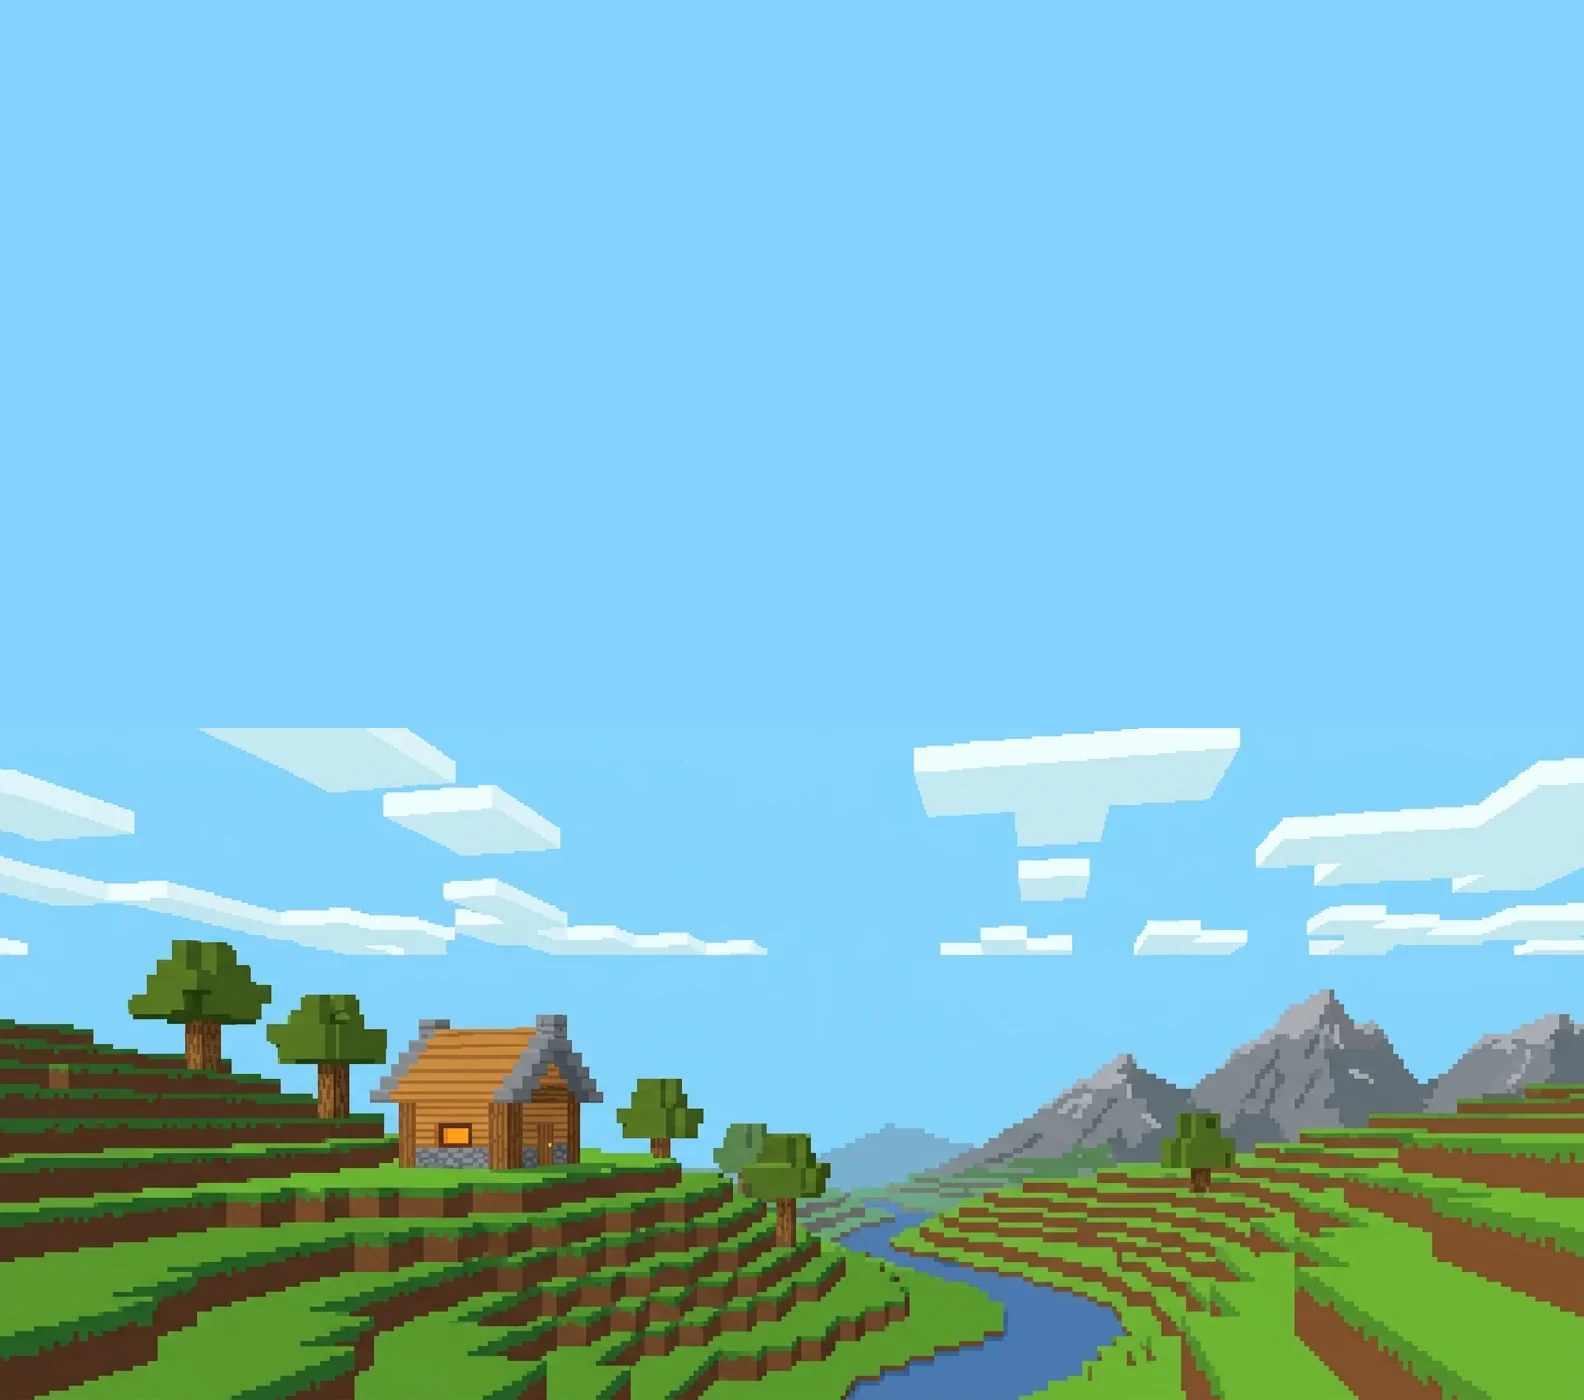
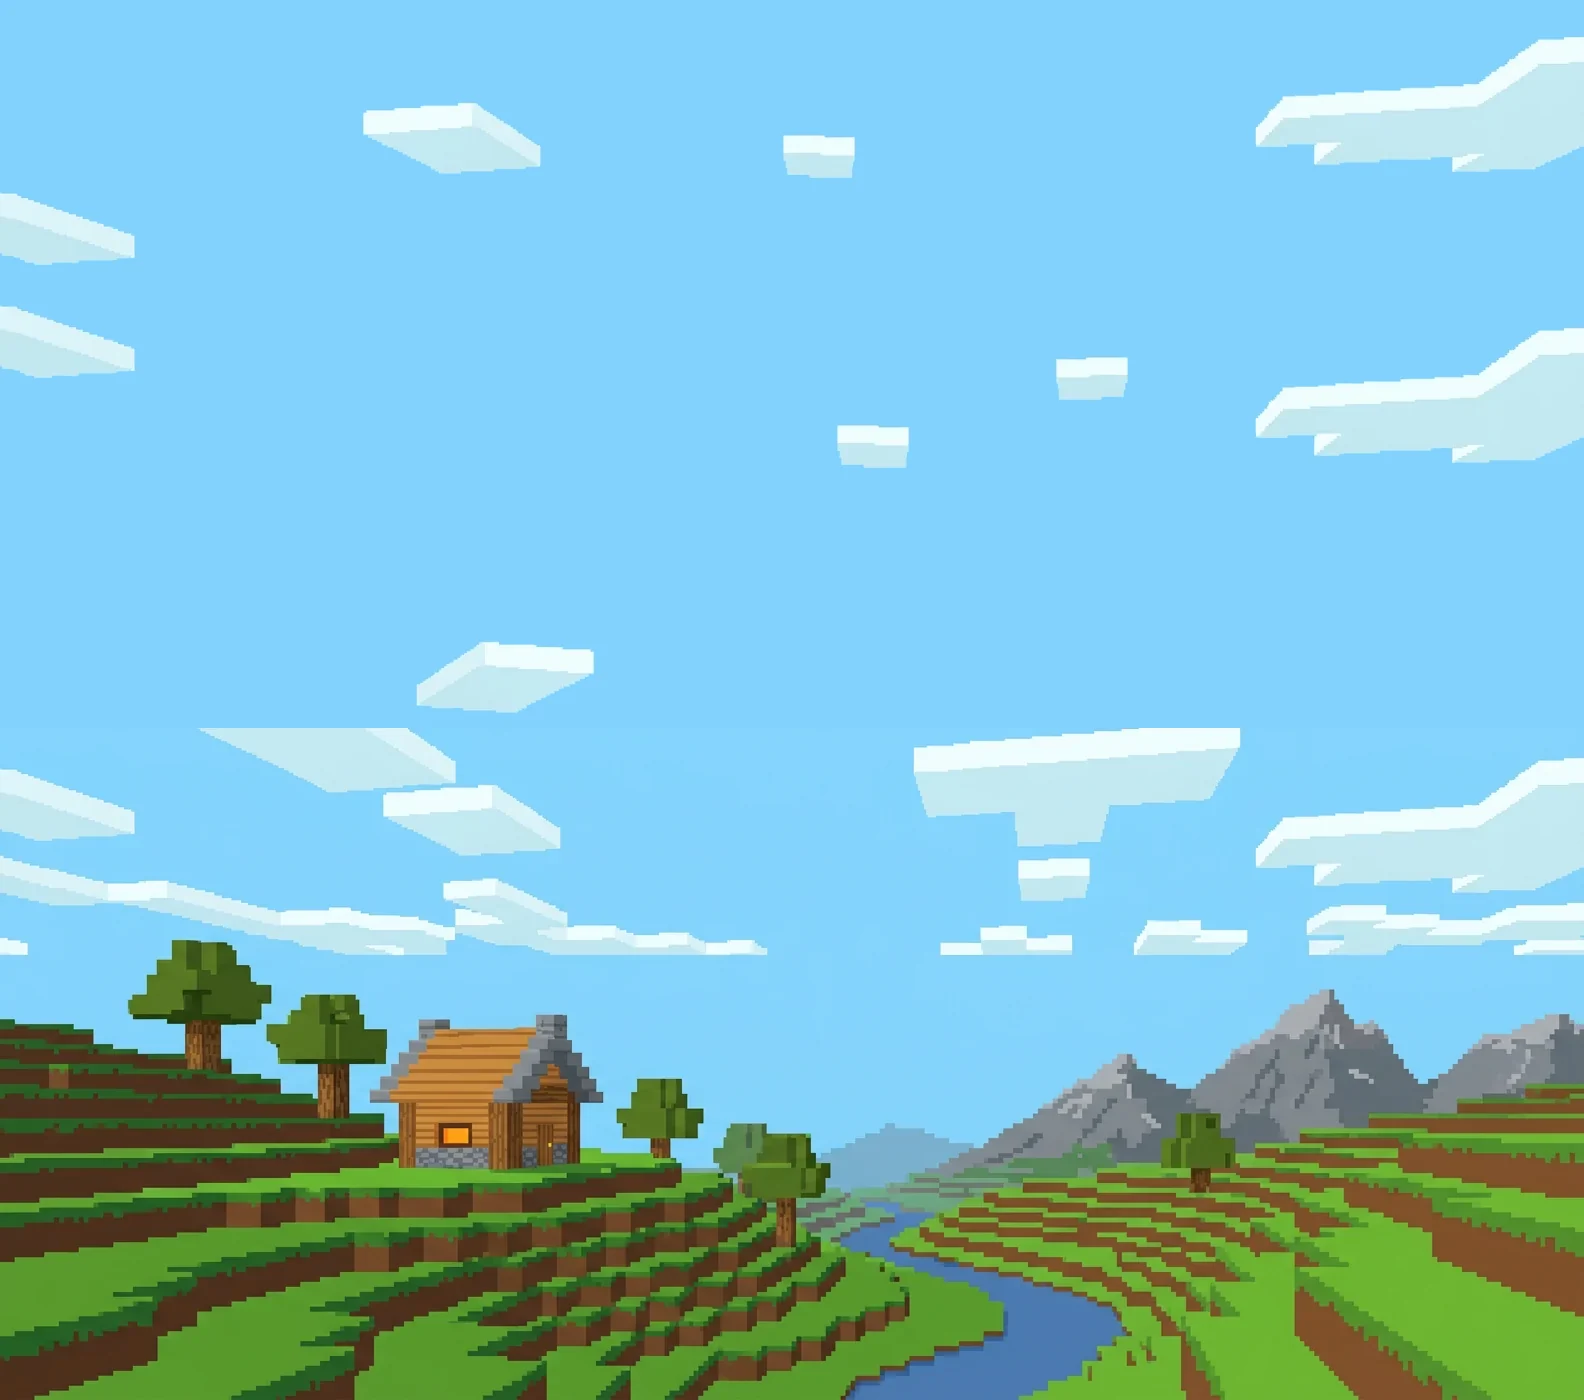
fix(website): one coherent sky in the hero, drifting clouds kept
The flat sky above the hero panorama looked pasted on: plain colour above,
painted clouds below. hero-extend.js now cuts the painting's own clouds
(and, at night, its stars) out of its sky band and scatters them over the
extended sky, seeded so a re-run is byte-identical, with capped repeats
and mirrored copies. The drifting pixel clouds stay on every sky.

diff --git a/website/scripts/hero-extend.js b/website/scripts/hero-extend.js
@@ -1,47 +1,185 @@
 // Derives the tall hero backgrounds from the generated panoramas: each one is
-// extended upward with its sky colour, so the hero is a single image (text over
-// sky, landscape at the bottom). The colour is the most common pixel colour of
-// the sky band (the flat blue behind the painted clouds), not the average: the
-// clouds lighten an average, and that mismatch showed as a seam behind the hero
-// text. The site's --color-sky tokens (styles/site.css) use the printed values,
-// so every sky on the site is the same blue.
-// Runs after gen-images.js; output is committed like the rest of src/assets/gen.
+// extended upward so the hero is a single image (text over sky, landscape at
+// the bottom) that reads as one sky from top to bottom.
+//
+// - The new sky is the most common pixel colour of the panorama's sky band
+//   (the flat blue behind its painted clouds), not the average, which the
+//   clouds lighten and which showed as a seam.
+// - The painted clouds are cut out of that band (every connected group of
+//   non-sky pixels that is not cut off by the band's edges) and scattered over
+//   the new sky at the band's own cloud density, so the upper sky has the same
+//   clouds as the lower one. Placement is seeded: a re-run is byte-identical.
+//
+// The site's --color-sky tokens (styles/site.css) use the printed colours, so
+// the page headers match the hero. Runs after gen-images.js; output is
+// committed like the rest of src/assets/gen.
 import { join, dirname } from 'node:path';
 import { fileURLToPath } from 'node:url';
 import sharp from 'sharp';
 
 const dir = join(dirname(fileURLToPath(import.meta.url)), '..', 'src', 'assets', 'gen');
 const TALL = 1400;
-// Rows at the top of each panorama that are only sky and clouds.
+// Rows at the top of each panorama that hold only sky and clouds.
+// `minSize`: the smallest group of pixels that counts (clouds by day, stars at night).
 const HEROES = [
-  { id: 'hero-day', band: 190 },
-  { id: 'hero-night', band: 140 },
+  { id: 'hero-day', band: 190, seed: 7, minSize: 300 },
+  { id: 'hero-night', band: 140, seed: 11, minSize: 2 },
 ];
+// A pixel further than this from the sky colour (RGB distance) is cloud.
+const CLOUD_DISTANCE = 22;
+
+const hex = ({ r, g, b }) => `#${[r, g, b].map((v) => v.toString(16).padStart(2, '0')).join('')}`;
+
+/** Mulberry32: tiny seeded PRNG so the scatter is the same on every run. */
+function rng(seed) {
+  let a = seed;
+  return () => {
+    a |= 0;
+    a = (a + 0x6d2b79f5) | 0;
+    let t = Math.imul(a ^ (a >>> 15), 1 | a);
+    t = (t + Math.imul(t ^ (t >>> 7), 61 | t)) ^ t;
+    return ((t ^ (t >>> 14)) >>> 0) / 4294967296;
+  };
+}
 
 /** Most common colour in the band, bucketed by 4 to absorb WebP noise. */
-async function skyColour(src, width, band) {
-  const { data, info } = await sharp(src)
-    .extract({ left: 0, top: 0, width, height: band })
-    .raw()
-    .toBuffer({ resolveWithObject: true });
+function skyColour(px, width, band) {
   const counts = new Map();
-  for (let i = 0; i < data.length; i += info.channels) {
-    const key = ((data[i] >> 2) << 16) | ((data[i + 1] >> 2) << 8) | (data[i + 2] >> 2);
+  for (let i = 0; i < width * band * 3; i += 3) {
+    const key = ((px[i] >> 2) << 16) | ((px[i + 1] >> 2) << 8) | (px[i + 2] >> 2);
     counts.set(key, (counts.get(key) || 0) + 1);
   }
   const [key] = [...counts].sort((a, b) => b[1] - a[1])[0];
   return { r: ((key >> 16) & 63) * 4 + 2, g: ((key >> 8) & 63) * 4 + 2, b: (key & 63) * 4 + 2 };
 }
 
-const hex = ({ r, g, b }) => `#${[r, g, b].map((v) => v.toString(16).padStart(2, '0')).join('')}`;
+/**
+ * Every cloud (or star) in the band as an RGBA sprite { width, height, data,
+ * area, edge }. `edge` is 'left' or 'right' for one cut off by that side of the
+ * picture: it is only ever placed flush against the same side, so the cut never
+ * shows.
+ */
+function cutClouds(px, width, band, sky, minSize) {
+  const isCloud = new Uint8Array(width * band);
+  for (let p = 0; p < width * band; p++) {
+    const i = p * 3;
+    const d = Math.hypot(px[i] - sky.r, px[i + 1] - sky.g, px[i + 2] - sky.b);
+    isCloud[p] = d > CLOUD_DISTANCE ? 1 : 0;
+  }
+  const seen = new Uint8Array(width * band);
+  const clouds = [];
+  for (let start = 0; start < width * band; start++) {
+    if (!isCloud[start] || seen[start]) continue;
+    const members = [];
+    const stack = [start];
+    seen[start] = 1;
+    let x0 = width,
+      x1 = 0,
+      y0 = band,
+      y1 = 0;
+    while (stack.length) {
+      const p = stack.pop();
+      members.push(p);
+      const x = p % width;
+      const y = (p - x) / width;
+      x0 = Math.min(x0, x);
+      x1 = Math.max(x1, x);
+      y0 = Math.min(y0, y);
+      y1 = Math.max(y1, y);
+      for (let dy = -1; dy <= 1; dy++)
+        for (let dx = -1; dx <= 1; dx++) {
+          const nx = x + dx;
+          const ny = y + dy;
+          if (nx < 0 || ny < 0 || nx >= width || ny >= band) continue;
+          const q = ny * width + nx;
+          if (isCloud[q] && !seen[q]) {
+            seen[q] = 1;
+            stack.push(q);
+          }
+        }
+    }
+    // Skip noise, clouds cut by the band's top or bottom, and anything spanning both sides.
+    if (members.length < minSize || y0 === 0 || y1 === band - 1 || (x0 === 0 && x1 === width - 1)) continue;
+    const edge = x0 === 0 ? 'left' : x1 === width - 1 ? 'right' : null;
+    const w = x1 - x0 + 1;
+    const h = y1 - y0 + 1;
+    const data = Buffer.alloc(w * h * 4);
+    for (const p of members) {
+      const x = p % width;
+      const y = (p - x) / width;
+      const o = ((y - y0) * w + (x - x0)) * 4;
+      data[o] = px[p * 3];
+      data[o + 1] = px[p * 3 + 1];
+      data[o + 2] = px[p * 3 + 2];
+      data[o + 3] = 255;
+    }
+    clouds.push({ width: w, height: h, data, area: members.length, edge });
+  }
+  return clouds;
+}
 
-for (const { id, band } of HEROES) {
+/** The same sprite flipped left to right. */
+function mirror(c) {
+  const data = Buffer.alloc(c.data.length);
+  for (let y = 0; y < c.height; y++)
+    for (let x = 0; x < c.width; x++)
+      c.data.copy(data, (y * c.width + (c.width - 1 - x)) * 4, (y * c.width + x) * 4, (y * c.width + x) * 4 + 4);
+  return { ...c, data };
+}
+
+/** Seeded, non-overlapping placement over `height` rows at the band's cloud density. */
+function scatter(clouds, width, height, density, random) {
+  const placed = [];
+  const target = density * width * height;
+  let covered = 0;
+  const uses = new Map();
+  for (let tries = 0; tries < 4000 && covered < target; tries++) {
+    let c = clouds[Math.floor(random() * clouds.length)];
+    // An edge cloud may appear twice and any other cloud four times (half of
+    // them mirrored), so no shape visibly repeats down the sky.
+    const used = uses.get(c) || 0;
+    if (used >= (c.edge ? 2 : 4)) continue;
+    uses.set(c, used + 1);
+    if (!c.edge && used % 2 === 1) c = mirror(c);
+    const left =
+      c.edge === 'left' ? 0 : c.edge === 'right' ? width - c.width : Math.floor(random() * (width - c.width));
+    const top = Math.floor(random() * (height - c.height));
+    const pad = c.area < 40 ? 6 : 24;
+    const hit = placed.some(
+      (p) =>
+        left < p.left + p.width + pad &&
+        p.left < left + c.width + pad &&
+        top < p.top + p.height + pad &&
+        p.top < top + c.height + pad
+    );
+    if (hit) continue;
+    placed.push({ ...c, left, top });
+    covered += c.area;
+  }
+  return placed;
+}
+
+for (const { id, band, seed, minSize } of HEROES) {
   const src = join(dir, `${id}.webp`);
-  const { width, height } = await sharp(src).metadata();
-  const sky = await skyColour(src, width, band);
-  await sharp(src)
-    .extend({ top: TALL - height, background: { ...sky, alpha: 1 } })
+  const { data: px, info } = await sharp(src).removeAlpha().raw().toBuffer({ resolveWithObject: true });
+  const { width, height } = info;
+  const sky = skyColour(px, width, band);
+  const clouds = cutClouds(px, width, band, sky, minSize);
+  const bandCloud = clouds.reduce((n, c) => n + c.area, 0) / (width * band);
+  const extra = TALL - height;
+  const placed = clouds.length ? scatter(clouds, width, extra, bandCloud, rng(seed)) : [];
+  const layers = placed.map((c) => ({
+    input: c.data,
+    raw: { width: c.width, height: c.height, channels: 4 },
+    left: c.left,
+    top: c.top,
+  }));
+  layers.push({ input: await sharp(src).png().toBuffer(), left: 0, top: extra });
+  await sharp({ create: { width, height: TALL, channels: 3, background: sky } })
+    .composite(layers)
     .webp({ quality: 86, effort: 6 })
     .toFile(join(dir, `${id}-tall.webp`));
-  console.log(`hero-extend: ${id}-tall.webp (${width}x${TALL}), sky ${hex(sky)}`);
+  console.log(
+    `hero-extend: ${id}-tall.webp (${width}x${TALL}), sky ${hex(sky)}, ${clouds.length} clouds cut, ${placed.length} placed`
+  );
 }

diff --git a/website/scripts/textures.js b/website/scripts/textures.js
@@ -1,4 +1,4 @@
-// Renders the site's pixel textures (16x16 tiles plus a heart sprite) into
+// Renders the site's pixel textures (16x16 tiles plus a cloud sprite) into
 // public/textures/. Original art generated from the panel's palette with a
 // seeded noise so a re-run is byte-identical; nothing is taken from the game.
 // Tiles are 1x and scaled up in CSS with image-rendering: pixelated.
@@ -63,6 +63,23 @@ const darkPlanks = (x, y) => {
   return hex(band % 2 ? '#3d2a16' : '#432e19');
 };
 
+// Cloud sprite: 32×12 blocky puff, white with soft alpha edge (hard pixels).
+const CLOUD = [
+  '........xxxxxxxx........xxxx....',
+  '......xxxxxxxxxxxx....xxxxxxxx..',
+  '....xxxxxxxxxxxxxxxxxxxxxxxxxxxx',
+  '..xxxxxxxxxxxxxxxxxxxxxxxxxxxxxx',
+  '..xxxxxxxxxxxxxxxxxxxxxxxxxxxxxx',
+  'xxxxxxxxxxxxxxxxxxxxxxxxxxxxxxxx',
+  'xxxxxxxxxxxxxxxxxxxxxxxxxxxxxxxx',
+  'xxxxxxxxxxxxxxxxxxxxxxxxxxxxxxxx',
+  '..xxxxxxxxxxxxxxxxxxxxxxxxxxxx..',
+  '....xxxxxxxxxxxxxxxxxxxxxxxx....',
+  '......xxxxxxxx....xxxxxxxx......',
+  '................................',
+];
+const cloud = (x, y) => (CLOUD[y][x] === 'x' ? [255, 255, 255, y >= 8 ? 230 : 255] : [0, 0, 0, 0]);
+
 // Heart: 9×8 pixel heart for list bullets.
 const HEART = ['.xx...xx.', 'xxxx.xxxx', 'xxxxxxxxx', 'xxxxxxxxx', '.xxxxxxx.', '..xxxxx..', '...xxx...', '....x....'];
 const heart = (x, y) =>
@@ -77,6 +94,7 @@ const jobs = [
   ['deep-stone.png', 16, 16, deepStone],
   ['planks.png', 16, 16, planks],
   ['dark-planks.png', 16, 16, darkPlanks],
+  ['cloud.png', 32, 12, cloud],
   ['heart.png', 9, 8, heart],
 ];
 for (const [name, w, h, fn] of jobs) await raster(w, h, fn).toFile(join(out, name));

diff --git a/website/src/styles/site.css b/website/src/styles/site.css
@@ -566,6 +566,29 @@
     flex-shrink: 0;
   }
 
+  /* Drifting pixel clouds. */
+  .cloud {
+    position: absolute;
+    width: 96px;
+    height: 36px;
+    background: url('/textures/cloud.png') no-repeat 0 0 / 96px 36px;
+    image-rendering: pixelated;
+    opacity: 0.95;
+    animation: drift linear infinite;
+    pointer-events: none;
+  }
+  @keyframes drift {
+    from {
+      transform: translateX(-140px);
+    }
+    to {
+      transform: translateX(calc(100vw + 140px));
+    }
+  }
+  [dir='rtl'] .cloud {
+    animation-direction: reverse;
+  }
+
   .prose-soft :where(p, li) {
     color: var(--color-ink-soft);
   }

diff --git a/docs/website.md b/docs/website.md
@@ -20,7 +20,7 @@ languages, deployed as static files to GitHub Pages.
 | Social cards          | `website/src/lib/og.js`, `website/src/pages/og/[...card].png.js`        | A 1200x630 PNG per page, drawn at build time in the site's look (satori lays it out with the bundled OFL fonts in `src/assets/og-fonts/`, sharp rasterises). English copy; every locale of a page shares its card.                                                                                                                                                                                       |
 | Install tutorial      | `website/src/components/InstallTutorial.astro`                          | Four tabs (Compose, Portainer/Dockge, source, PM2/systemd), numbered steps, copy buttons. Two inputs (data folder, host) rewrite every command and the panel URL live; tabs are radios so they work without JavaScript. Commands live in the component, the prose in `en.json` under `tutorial`.                                                                                                         |
 | Illustrations         | `website/src/assets/gen/*.webp`, `website/scripts/gen-images.js`        | Original art generated through OpenRouter (see below) and committed as WebP. `website/src/data/art.js` looks them up by id; a missing picture just renders nothing.                                                                                                                                                                                                                                      |
-| Textures              | `website/public/textures/*.png`, `website/scripts/textures.js`          | Procedural 16x16 tiles (grass, dirt, stone, planks, heart) in the palette, byte-identical on every run. No Mojang assets anywhere on the site.                                                                                                                                                                                                                                                           |
+| Textures              | `website/public/textures/*.png`, `website/scripts/textures.js`          | Procedural 16x16 tiles (grass, dirt, stone, planks, cloud, heart) in the palette, byte-identical on every run. No Mojang assets anywhere on the site.                                                                                                                                                                                                                                                    |
 | Hosting               | GitHub Pages                                                            | `website/public/CNAME` holds the domain. `.github/workflows/website.yml` builds and deploys on push to `main`.                                                                                                                                                                                                                                                                                           |
 
 ## URL layout
